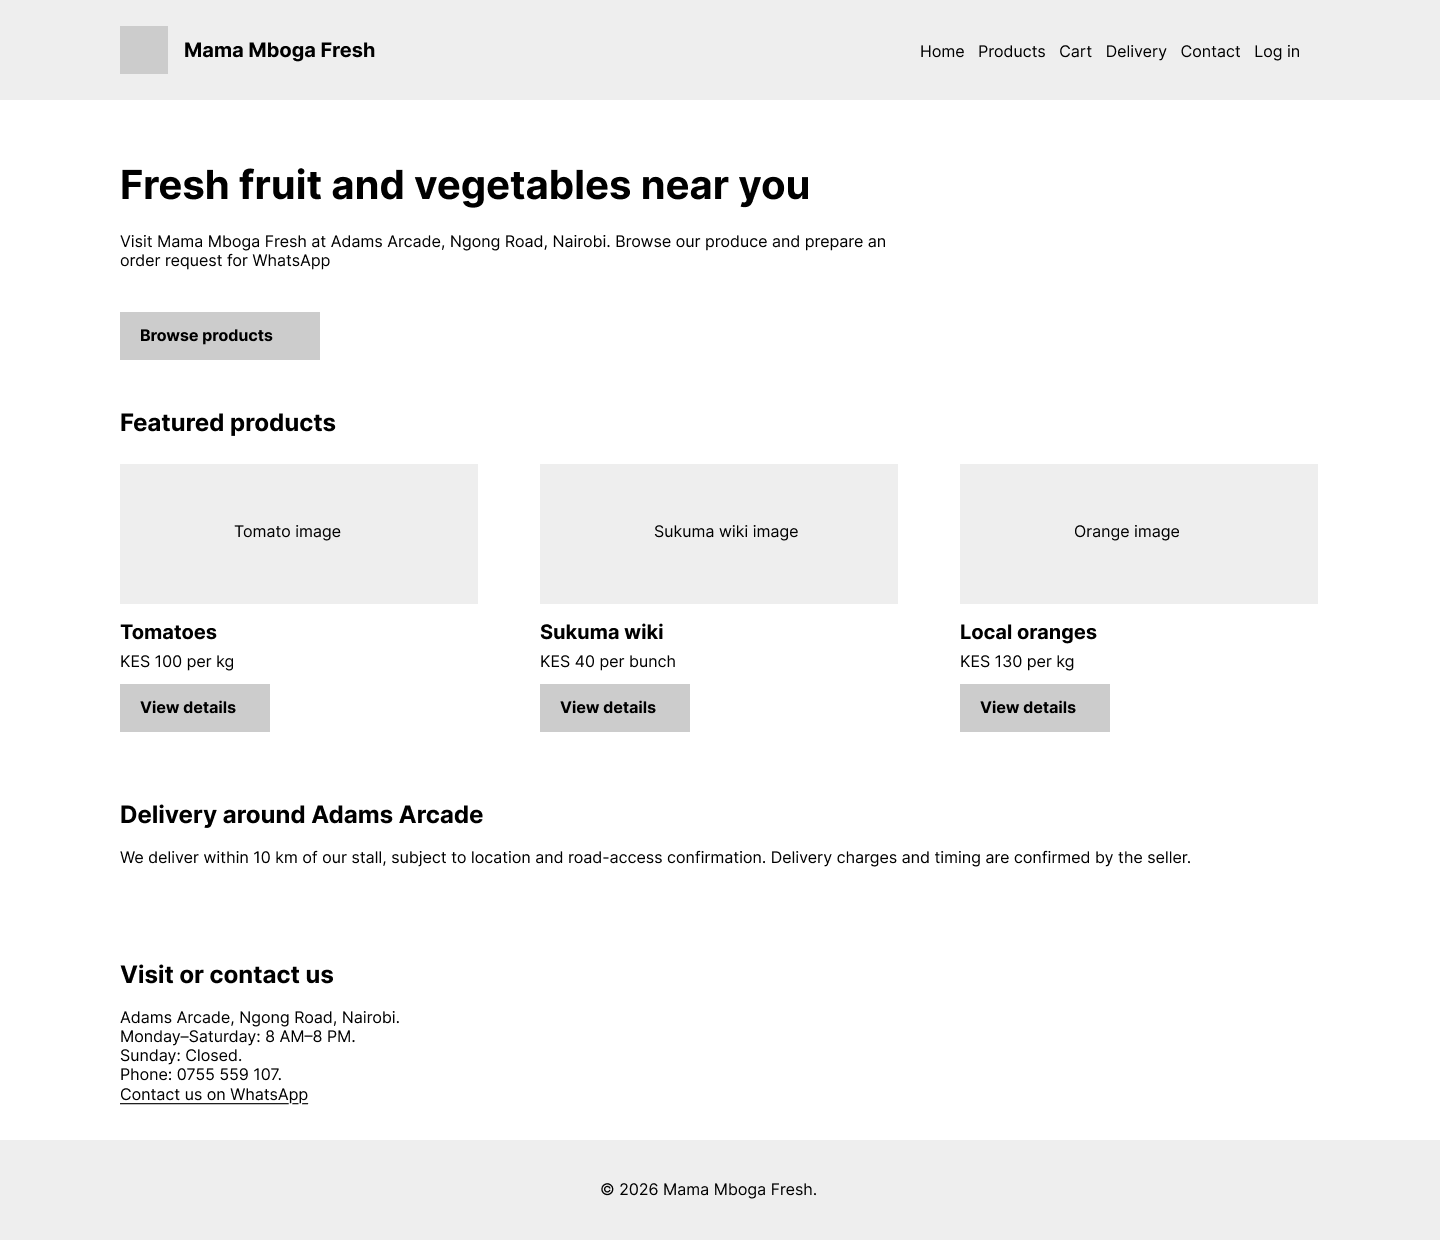
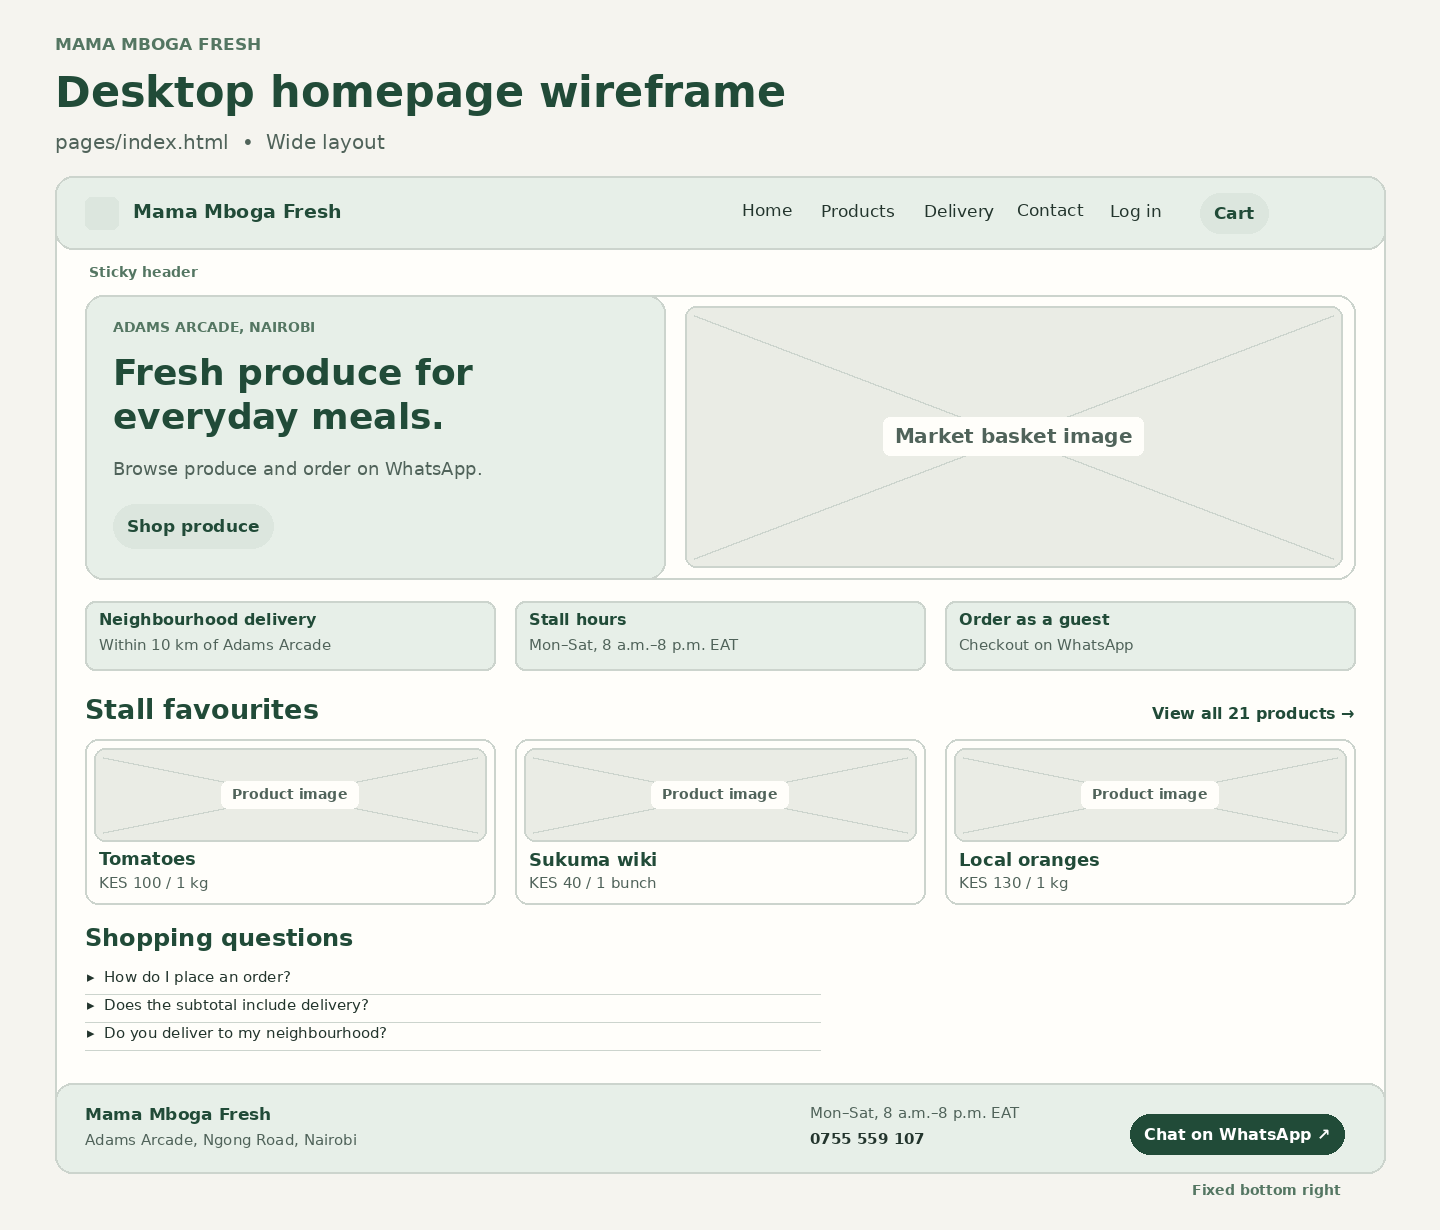
Update README, sitemap, and homepage wireframes

diff --git a/README.md b/README.md
@@ -1,37 +1,104 @@
 # Mama Mboga Fresh
 
-## Run it locally on Windows
+Mama Mboga Fresh is a web design and development course project for a neighbourhood produce stall at Adams Arcade, Ngong Road, Nairobi. Customers can browse the catalogue, build a shopping cart and send an itemised order request through WhatsApp. Customer accounts are optional.
 
-1. Extract the ZIP and open its `website` folder in VS Code.
-2. Right-click the root `index.html` and select **Open with Live Server**. You can also start a Python server from the `website` folder:
+[Visit the live website on GitHub Pages](https://dorringtone.github.io/website/)
 
-   ```powershell
-   py -m http.server 8000
-   ```
+## Stall and delivery
 
-3. Open <http://localhost:8000/>. Press **Ctrl+C** in the terminal to stop the Python server.
-
-The local server loads the JavaScript modules used by checkout, contact and customer accounts.
-
-## Project folders
-
-| Path | What to edit there |
+| Detail | Information |
 | --- | --- |
-| `pages/` | The eight storefront pages, including the home page at `pages/index.html`. |
-| `js/` | Browser scripts for the catalogue, cart, WhatsApp checkout and customer accounts. |
-| `css/style.css` | Shared styles, including the sticky header and floating WhatsApp link. |
-| `images/`, `logo/`, `fonts/` | Product and hero images, the brand assets and bundled fonts. |
-| `documentations/` | Original project diagrams. |
-| `index.html` | Entry point for the site root. It opens `pages/index.html`. |
+| Location | Adams Arcade, Ngong Road, Nairobi |
+| Phone and WhatsApp | 0755 559 107 |
+| Opening hours | Monday–Saturday, 8:00 AM–8:00 PM EAT. Closed on Sundays. |
+| Delivery area | Addresses within 10 km of Adams Arcade, subject to address and road-access confirmation |
+| Delivery fee and timing | Confirmed by the seller on WhatsApp after checking the address |
 
-The source comments explain which scripts populate each page, how the forms work and where the main style rules are defined. Edit `js/products-data.js` to update products, units and indicative prices.
+## Shopping and ordering
 
-## Update your existing GitHub repository
+1. Open [Products](pages/products.html). The catalogue lists 21 products, six per page, with photos, selling units and indicative prices.
+2. Select a product to see its description and related suggestions. Choose a whole-number quantity from 1 to 99 selling units.
+3. Add the product to the cart. In [Cart](pages/cart.html), you can change quantities, remove items and see the estimated produce subtotal.
+4. Enter your name and estate or neighbourhood in the cart's delivery form. Add a landmark or instructions if helpful.
+5. Select **Open order in WhatsApp**. Review the draft in the new tab, then press **Send** in WhatsApp. If the tab did not open, use **Open prepared order again** on the cart page.
 
-Copy the **contents** of the extracted `website` folder into the root of your existing repository and keep its Git history. If you copy the new folders over an existing checkout, use VS Code to remove the old root-level page HTML files, JavaScript files and `style.css` that have moved. Keep the supplied root `index.html` so GitHub Pages can open the site from `/website/`.
+The stall confirms availability, delivery coverage, fee and timing, the final total and payment arrangements. The cart keeps its contents in your browser. The floating **Chat on WhatsApp** button opens a general enquiry. Use the cart to prepare a message with the items and delivery details.
 
-Direct links to the moved pages now use `/website/pages/`, such as `/website/pages/delivery.html`. Review the file moves in Source Control before committing.
+## Contact and accounts
 
-## Customer accounts and ordering
+- [Contact](pages/contact.html) shows the phone number, opening hours and **Find our stall** map, which opens in Google Maps in a new tab. The enquiry form prepares a WhatsApp draft with the customer's chosen reply method and details. Choosing email sets a reply preference.
+- [Log in](pages/log-in.html) and [Create an account](pages/register.html) use Firebase Authentication. Registration asks for a full name, email and password confirmation. Customers can verify their email, sign in, request a password reset and sign out.
+- The navigation shows the customer's first name when available, or **My account** when signed in without a name. It returns to **Log in** on sign-out. The website's own scripts store cart items in localStorage. Firebase handles the password.
+- The cart stays in the browser after sign-out. Accounts currently have no order history, saved delivery addresses or cart synchronisation across devices.
 
-The account pages use the original Mama Mboga Fresh Firebase project for login, registration, password reset, email verification and sign-out. Guests can still browse and order. The cart is stored in the browser and prepares an itemised WhatsApp draft. The floating **Chat on WhatsApp** link opens a general enquiry. WhatsApp, Google Maps and Firebase require internet access.
+## Run locally
+
+Open the repository folder in VS Code. If you use Live Server, right-click the root `index.html` and choose **Open with Live Server**. With Python installed on Windows, you can also run the following command from the repository root.
+
+```powershell
+py -m http.server 8000
+```
+
+Open <http://localhost:8000/> and press **Ctrl+C** in the terminal when finished. Use the local server so the browser can load the JavaScript modules used by checkout, contact and customer accounts. Localhost and the live site maintain separate browser carts and sign-in sessions. Firebase, Google Maps and WhatsApp require internet access.
+
+## Current project structure
+
+| Path | Purpose |
+| --- | --- |
+| [`index.html`](index.html) | Root entry point. It forwards the site URL to `pages/index.html`. |
+| [`pages/index.html`](pages/index.html) | Home page with the hero, service links, featured products and shopping FAQ. |
+| [`pages/products.html`](pages/products.html) | Catalogue with pagination. |
+| [`pages/product.html`](pages/product.html) | Product details, quantity selector and related items. Example route `pages/product.html?id=tomato`. |
+| [`pages/cart.html`](pages/cart.html) | Cart, estimated subtotal, delivery form and order draft. |
+| [`pages/delivery.html`](pages/delivery.html) | Standalone page for coverage, fees and timing. |
+| [`pages/contact.html`](pages/contact.html) | Enquiry form, opening hours and stall map. |
+| [`pages/log-in.html`](pages/log-in.html) and [`pages/register.html`](pages/register.html) | Account sign-in, registration, reset and verification. |
+| [`css/style.css`](css/style.css) | Responsive layouts, sticky header, floating chat and form styles. |
+| [`js/`](js/) | Browser scripts for navigation, catalogue, cart, forms and accounts. |
+| [`images/`](images/), [`logo/`](logo/) and [`fonts/`](fonts/) | Product photos, the homepage illustration, the approved business logo and favicon, and bundled fonts. Product photos are used with permission. |
+| [`documentations/`](documentations/) | Current sitemap and homepage wireframes. |
+
+Edit [`js/products-data.js`](js/products-data.js) to maintain the catalogue. [`js/cart-store.js`](js/cart-store.js) saves the cart and [`js/checkout.js`](js/checkout.js) builds the order draft. Contact, checkout, login and registration use [`js/form-validation.js`](js/form-validation.js) for inline errors and focus management. The source files include comments identifying what each script or section handles.
+
+The site is built with HTML, CSS and JavaScript. Git and GitHub track the source and GitHub Pages serves the static files. Firebase Authentication provides customer accounts. The site has no custom application server or product and order database.
+
+## Sitemap and wireframes
+
+- [Sitemap](documentations/sitemap.png) shows the root entry point, all eight pages, the guest ordering flow and optional accounts.
+- [Desktop homepage wireframe](documentations/wireframe-desktop.png) shows the full navigation, split hero and three-column featured grid.
+- [Mobile homepage wireframe](documentations/wireframe-mobile.png) shows the Menu and Cart controls, stacked hero and two-column featured grid.
+
+## Development milestones
+
+| Date | What changed | GitHub commits |
+| --- | --- | --- |
+| 27–30 Oct 2026 | Started the repository, updated the project brief, and added the product photos and logo. | [069a0fd](https://github.com/Dorringtone/website/commit/069a0fd), [ba8c9af](https://github.com/Dorringtone/website/commit/ba8c9af) |
+| 31 Oct 2026 | Built and styled Home, added the catalogue and pagination, then added product details, quantity selection and related suggestions. | [9809672](https://github.com/Dorringtone/website/commit/9809672), [ca66bb3](https://github.com/Dorringtone/website/commit/ca66bb3), [7842eee](https://github.com/Dorringtone/website/commit/7842eee), [f7b69c9](https://github.com/Dorringtone/website/commit/f7b69c9), [d8bdb1b](https://github.com/Dorringtone/website/commit/d8bdb1b) |
+| 31 Oct 2026 | Added a saved cart, delivery details and WhatsApp checkout in a new tab. Set the logo as the favicon. | [70a3df1](https://github.com/Dorringtone/website/commit/70a3df1), [477025c](https://github.com/Dorringtone/website/commit/477025c), [6e25b32](https://github.com/Dorringtone/website/commit/6e25b32), [0041428](https://github.com/Dorringtone/website/commit/0041428) |
+| 1–4 Nov 2026 | Added setup instructions, built Contact with reply preferences and the stall map, and connected Firebase account navigation. | [0a199f1](https://github.com/Dorringtone/website/commit/0a199f1), [2c242f7](https://github.com/Dorringtone/website/commit/2c242f7), [1e04da0](https://github.com/Dorringtone/website/commit/1e04da0), [5e11299](https://github.com/Dorringtone/website/commit/5e11299) |
+| 5–7 Nov 2026 | Added the first sitemap and wireframes, corrected heading order, documented hours, guarded checkout until JavaScript loaded, and refined the layout with Flexbox and Grid. | [f1f8bf9](https://github.com/Dorringtone/website/commit/f1f8bf9), [5e66fde](https://github.com/Dorringtone/website/commit/5e66fde), [c2d38d6](https://github.com/Dorringtone/website/commit/c2d38d6), [a8de23e](https://github.com/Dorringtone/website/commit/a8de23e), [cecf68c](https://github.com/Dorringtone/website/commit/cecf68c), [c46ced1](https://github.com/Dorringtone/website/commit/c46ced1) |
+| 8 Nov 2026 | Added a Kenya-time opening status in that version, a mobile menu, a Home FAQ and inline form validation. | [e513a13](https://github.com/Dorringtone/website/commit/e513a13), [811659a](https://github.com/Dorringtone/website/commit/811659a), [14e0324](https://github.com/Dorringtone/website/commit/14e0324) |
+| 14 Nov 2026 | Redesigned the storefront, integrated the account screens into the redesign and introduced a standalone Delivery page. | [53dff55](https://github.com/Dorringtone/website/commit/53dff55) |
+| 14 Nov 2026 | Moved storefront files into `pages/`, `js/` and `css/`, kept a root entry, added source comments and made the header sticky and WhatsApp chat float. | [8ec4867](https://github.com/Dorringtone/website/commit/8ec4867) |
+
+[View the full commit history](https://github.com/Dorringtone/website/commits/main/)
+
+## Manual testing
+
+| Area | What to check |
+| --- | --- |
+| Navigation and layout | Open the site root and confirm it forwards to Home. Check phone widths around 360–390 px and desktop at 1280 px or wider. Scroll with the header and chat link in view. On a phone, use the keyboard to open **Menu**, press **Escape** to close it and confirm focus returns to the button. |
+| Catalogue and cart | Check the first and last catalogue pages and open a product with related suggestions. Add two items, change a quantity, refresh, then remove the items. Verify totals and that removing the last item focuses **Continue shopping**. |
+| Guest checkout | With a product in the cart, try a blank delivery form and an invalid quantity. Fill the required fields with sample values, then check that the WhatsApp draft includes the items, subtotal and delivery details. You can review the draft without sending it. |
+| Enquiry and map | Check the preferred-reply options and confirm the relevant phone or email field is shown. Test a blank message. Open **Find our stall** and confirm Google Maps opens separately. |
+| Account forms | Try mismatched passwords on Register and check that a blank password reset asks for an email address. With a test account, check verification, sign-in, the account label and sign-out. Repeat on the live site after changes to Firebase integration. |
+
+For form debugging, place a breakpoint on the `const first = updateSummary();` line in `js/form-validation.js`, submit a blank form and inspect the fields marked `aria-invalid`. If deployed changes appear stale, use **Ctrl+Shift+R** to reload the page and assets.
+
+## Firebase configuration
+
+The current site uses the existing Mama Mboga Fresh Firebase project. If you configure a separate copy, register a web app, enable the Email/Password sign-in provider and edit [`js/firebase-config.js`](js/firebase-config.js). Keep the Firebase module versions in sync. Review **Authentication → Settings → Authorized domains** for the hostnames used by your project, such as `localhost` and `dorringtone.github.io`. Keep service-account keys and administrator credentials outside the repository.
+
+## Current operating limits
+
+Product prices are indicative, and the produce subtotal excludes delivery. The cart does not reserve stock. The stall checks coverage and confirms orders manually. Payments are arranged with the seller. The site prepares WhatsApp drafts and does not receive a delivery or send confirmation from WhatsApp.
